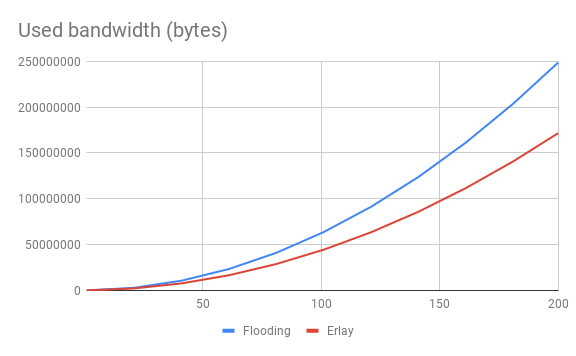
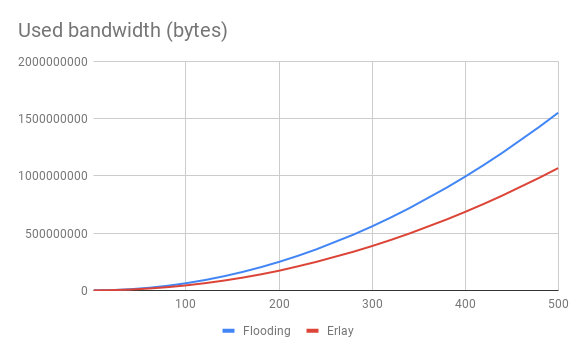
Update bandwidth graph

diff --git a/README.md b/README.md
@@ -78,7 +78,7 @@ As we can see, [Erlay] benefits us with `100 - 357488.0 / 429488.0 * 100 = 16.8`
 
 ### Graphs
 
-1. Used bandwidth in bytes depending on number of private nodes (1-200) with two (2) public nodes:
+1. Used bandwidth in bytes depending on number of private nodes (1-500) with two (2) public nodes:
 
 ![](assets/bandwidth.png)
 
